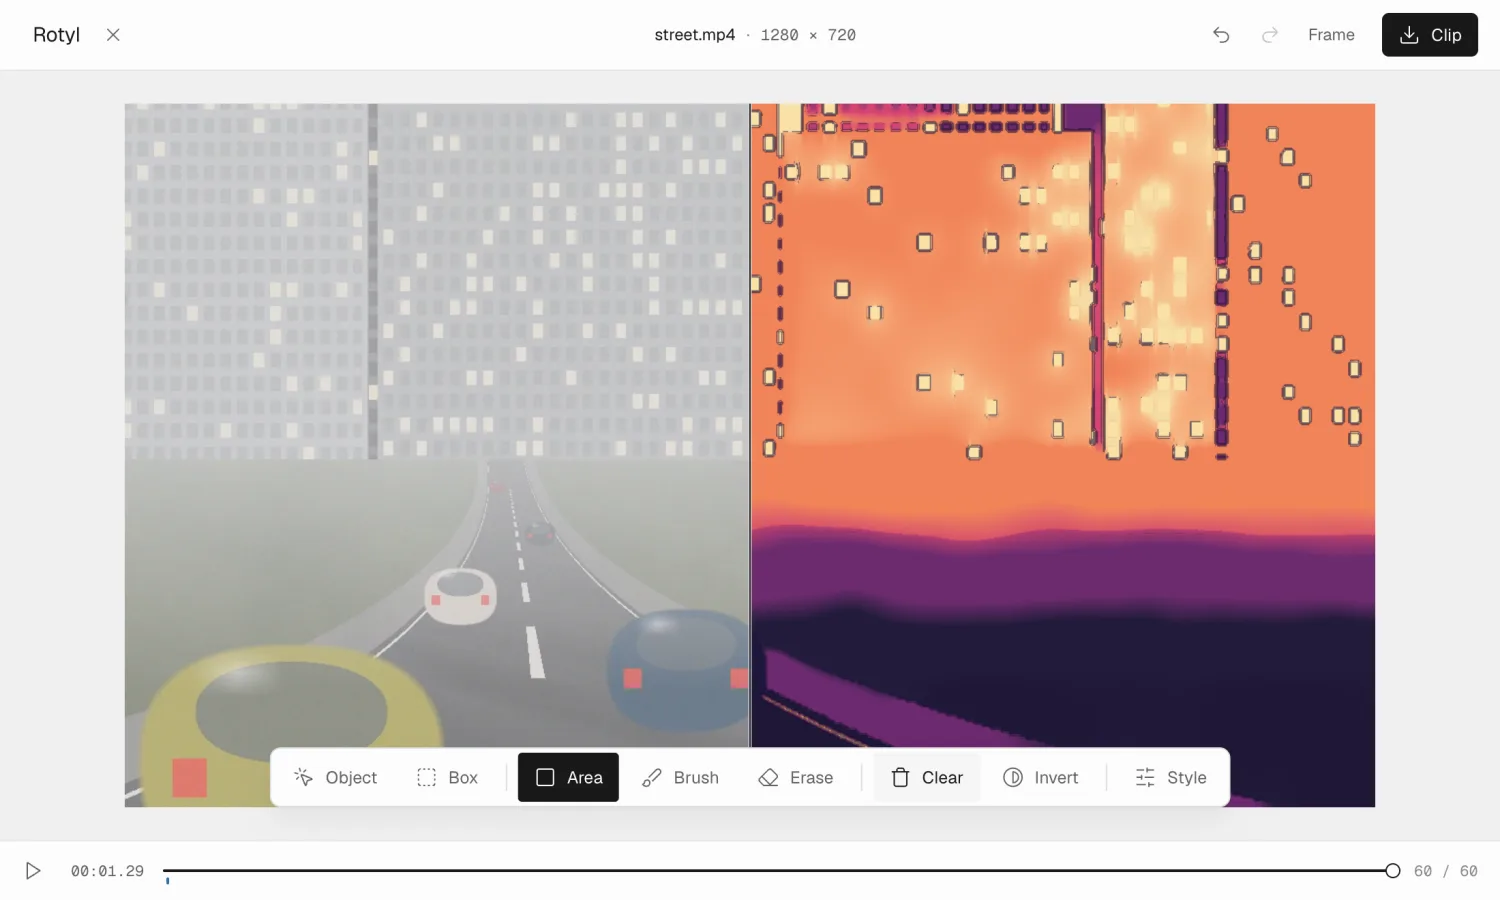
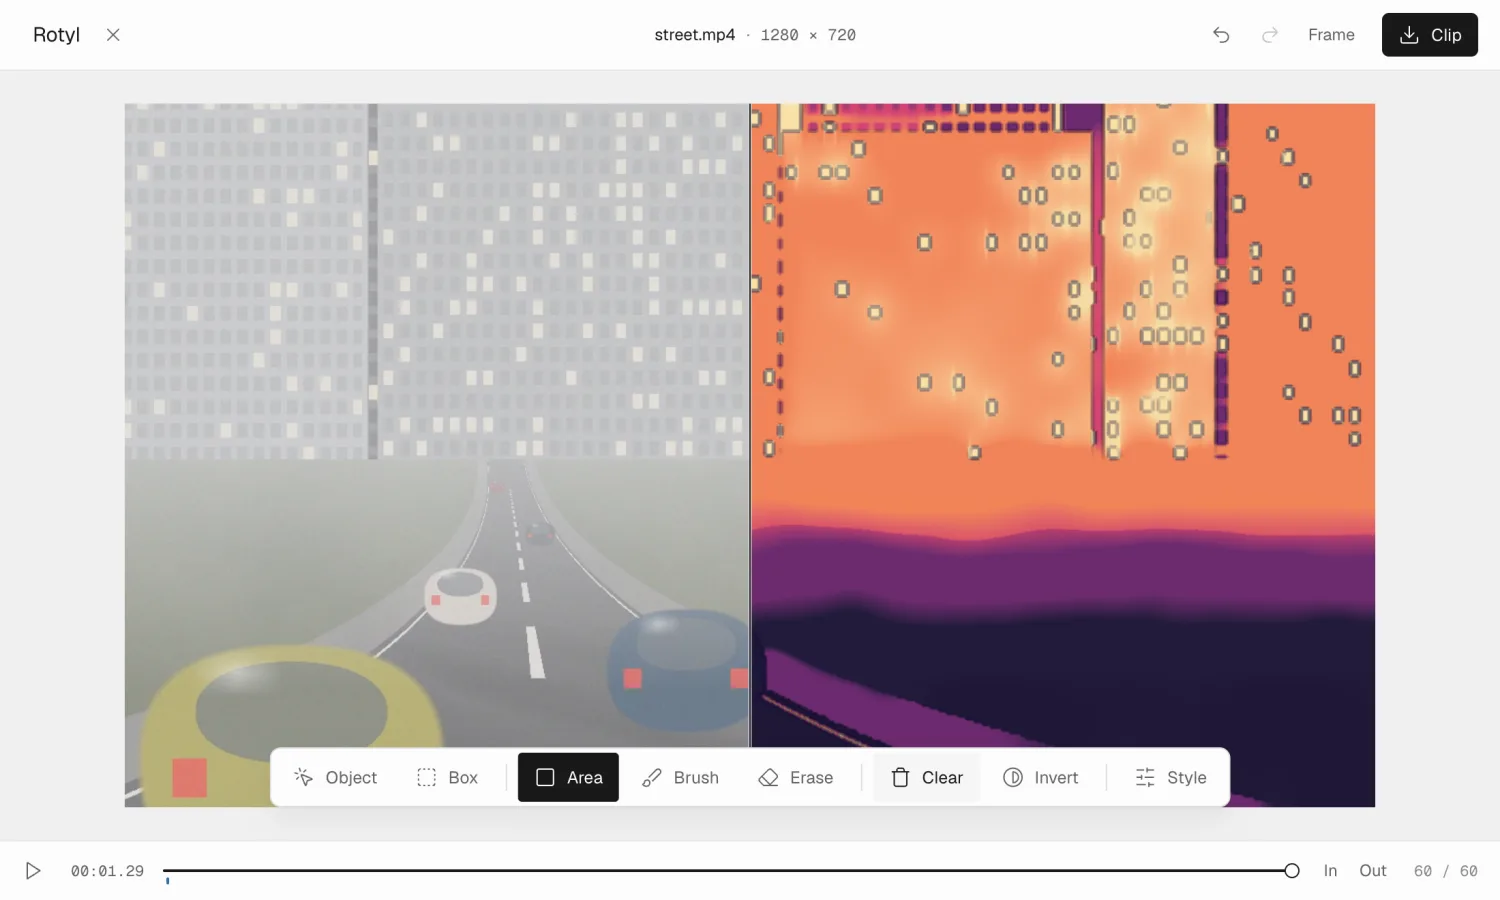
Say in the docs what a clip now carries, and retake the shot the timeline changed

diff --git a/docs/video.md b/docs/video.md
@@ -2,8 +2,8 @@
 
 # Video, so far
 
-![A video frame with its right half stylised, the timeline below it, and Frame
-and Clip export buttons above](media/video.webp)
+![A video frame with its right half stylised, the timeline below it carrying In
+and Out beside the frame count, and Frame and Clip export buttons above](media/video.webp)
 
 Open an MP4 or a MOV, select a region, and play it. Every frame goes through the
 same renderer a photograph does, the same style chain, the same composite, the
@@ -92,7 +92,11 @@ there.
 
 Two smaller things, both the difference between honest and usable. The timeline
 marks the frames where an edit begins, because a selection whose origin cannot
-be found again cannot be corrected. And undo moves the playhead to whatever it
+be found again cannot be corrected. It also carries In and Out, which say which
+part of the clip an export writes, and nothing at all until one is set: a clip
+somebody has said nothing about must not carry marks implying they have. The
+letters are the ones every editor binds, shifted here because the unshifted
+pair is taken by the Object tool and the tools come first. And undo moves the playhead to whatever it
 undid: the log is one list with one cursor, so undo means the last thing you
 did, which may be somewhere you are not looking. An edit disappearing in front
 of you is undo, and an edit disappearing off screen is a bug report. Following
@@ -239,6 +243,51 @@ they were when export could only write a picture, and the only new decision is
 which pair the user asked for. A second container would be one entry in a table,
 and a second codec one entry in another.
 
+**Sound is not more frames, and it is still not a second loop.** A soundtrack is
+a second stream whose packets do not land on frame boundaries and are not the
+same number as the frames, so it gets a cursor of its own on the source and a
+second method on the sink. What it does not get is a pass of its own over the
+file, and that is a measurement rather than a preference. Written as one run
+after the video, the sound of a given second sits most of the file away from its
+picture and the distance grows with the clip, which is not a progressive file
+whatever order the boxes are in. Written that way it is usually not a file at
+all: with the index reserved, the muxer cannot size the movie box until it has
+seen a packet from every track, so a run of video with the audio behind it
+queues every frame in memory and, on a track carrying B-frames, fails before a
+byte is written. So the loop asks on every frame whether the sound is behind and
+hands over whatever is due, which is one comparison per frame and turns that
+distance into a constant. `tools/video-bench` has the three arrangements.
+
+**And the sound is copied rather than encoded.** The picture is re-encoded
+because it was re-drawn; the audio was not touched, so what goes into the file
+is the packets that came out of it, bit-identical, with nothing changed but the
+moment they play. There is no `AudioDecoder` and no `AudioEncoder` anywhere in
+this product and passing packets through needs neither. What that costs is two
+edges: an AAC track's own priming packet sits at a negative timestamp that MP4
+cannot express, and a range's in point lands inside a packet rather than between
+two. Both are dropped, each is at most 21 ms at 48 kHz against a 33 ms frame,
+and everything kept is at exactly the moment it was at in the source. The
+alternative is re-encoding the first packet, which is exact and is also the only
+thing that would stop the sound being the source's own bytes.
+
+**A soundtrack the container cannot hold is said before the work.** An MP4 holds
+eighteen audio codecs and QuickTime holds more, so a `.mov` with mu-law audio is
+an ordinary file whose sound has nowhere to go. Deciding that costs a list
+lookup on a track that is already open, so it is a fact about the open file
+rather than an outcome of the export: it is in the row beside the file's name
+and in the export button's own sentence, and it is said again when the file
+lands. The one thing it must not be is a discovery made by playing the result.
+
+**A range is a range on the export, not a trim of the document.** In and Out
+mark which frames a clip export writes, and that is all they change: every
+command in the log keeps its absolute frame number and still folds forward, so a
+selection made on frame 0 still applies to a range that starts at frame 400. A
+trim that renumbered frames would put the log and the timeline into
+disagreement about what frame 500 means, and every edit made before the in point
+would either move or stop applying. The one thing that is rebased is the
+presentation timestamp, so the written file starts at zero, and that is a
+property of the file rather than of the document.
+
 **Where the bytes go is asked before any of them exist.** A browser that can be
 handed a file writes each packet into it as the encoder makes one, so what the
 tab is holding does not depend on how long the clip is. A browser that cannot
@@ -282,6 +331,15 @@ and hands over a clip of that. Given a file to write into there is no budget at
 all, because nothing is being held: measured over twenty-five minutes, the heap
 grows by half a megabyte per thousand frames, which is the noise of a decode
 loop. `tools/video-bench` has the ladder.
+
+**The index still goes at the front with two tracks in the file**, which needs
+one more thing than it did with one: `reserve` sizes the sample tables before
+the first sample lands, so EVERY track needs a maximum packet count up front.
+The video's is free, since an export knows how many frames it is writing before
+it renders the first one. The audio's is a metadata-only walk of the whole
+track, which reads the sample tables and none of the payload, at about a
+microsecond a packet. Fifty milliseconds on twenty minutes of 48 kHz audio, paid
+once, before anything slow.
 
 **The composite reaches the encoder through the canvas it already renders into.**
 Measured, per frame at 1080p: capturing the canvas costs nothing detectable,

diff --git a/docs/limits.md b/docs/limits.md
@@ -106,16 +106,45 @@ one, and the measurement behind it is on `/research.html`.
   downloads folder in every browser. It is a couple of megabytes with no ceiling
   in sight, so a dialog in front of it would buy nothing and cost an interaction
   this product has always had.
-- Exporting a clip writes H.264 in MP4 and nothing else. HEVC and AV1 encode in
-  some browsers and have been measured in none here, and the codec list is one
-  array waiting for somebody with the numbers.
-- Audio is not written. There is no audio anywhere in the product yet, and a
-  clip that silently dropped a soundtrack it had been given would be worse than
-  one that never had it.
+- Exporting a clip writes H.264 in MP4 and nothing else, and re-encodes the
+  picture while copying the sound. HEVC and AV1 encode in some browsers and have
+  been measured in none here, and the codec list is one array waiting for
+  somebody with the numbers.
+- **A clip's sound is copied across rather than re-encoded, and two packets of
+  it can go missing.** The audio is written as the packets it arrived as, so
+  what comes out is bit-identical to what went in, which is the one thing about
+  a clip export that is exact. What that costs is the two edges. An AAC track
+  begins with a priming packet at a negative timestamp, whose samples a decoder
+  throws away, and MP4 has no way to say "before zero" except an edit list this
+  muxer only writes for positive offsets, so it is dropped. And a range's in
+  point lands inside a packet rather than between two, so the packet holding it
+  is dropped as well. Each is at most 21 ms at 48 kHz, which is less than a
+  frame at 30, and everything kept is at exactly the moment it was at in the
+  source. The alternative is re-encoding the first packet, which is exact and
+  is also the only thing that would stop the sound being the source's own bytes.
+- **A soundtrack an MP4 cannot carry is dropped, and said before the work rather
+  than after it.** QuickTime holds mu-law and MP4 does not, so a `.mov` off an
+  older camera is an ordinary file whose sound has nowhere to go. Which codecs
+  survive is decided from the track and the format alone while the file is
+  merely open, so it is in the row beside the file's name and in the export
+  button's own sentence, minutes before the encoding rather than after it. There
+  is no second container to offer instead: writing QuickTime costs eleven bytes
+  and has been measured on nothing.
+- Playback has no sound. What an export carries and what the editor plays are
+  separate questions, and a preview that played audio would need a clock the
+  render loop deliberately does not have: playback drops frames rather than
+  running slow, and sound cannot.
+- **An export range is a range on the export and not a trim of the document.**
+  In and Out mark which frames a clip export writes; every command in the log
+  keeps its own absolute frame number, so a selection made before the range
+  starts still applies to it and the timeline still means what it meant. What
+  that does not give you is a trim: there is no way to cut the middle out of a
+  clip, or to write two ranges into one file, and both would be reasonable
+  things to want.
 - Clear and Invert act from the frame being shown onward, like every other
   command. There is no way to say "this frame only" or "the whole clip", and
   both would be reasonable things to want.
-- Playback has no audio and no loop, and drops frames rather than running slow
+- Playback has no loop, and drops frames rather than running slow
   when the style chain cannot keep up. Which it only does for the comic style:
   the other two are around a millisecond a frame at 720p.
 - The print style twinkles on video. 3% of pixels move more than 8 codes

diff --git a/README.md b/README.md
@@ -46,11 +46,14 @@ edit holds from the frame it was made on until something later changes it, and
 Track follows what is selected forward through the clip as a job the playhead is
 free to ignore. See [video](docs/video.md).
 
-**Exporting.** The frame on screen as a picture, or the whole clip as an MP4.
-Both are the preview's renderer at the preview's parameters stopping at the same
-pass, so a saved file cannot drift from what was on screen. A clip asks where it
-goes before it encodes anything, and in a browser that can answer that it is
-written into the file as it is made rather than held until the end.
+**Exporting.** The frame on screen as a picture, or the clip as an MP4, whole or
+between an In and an Out. Both are the preview's renderer at the preview's
+parameters stopping at the same pass, so a saved file cannot drift from what was
+on screen. A clip asks where it goes before it encodes anything, and in a
+browser that can answer that it is written into the file as it is made rather
+than held until the end. Its soundtrack goes with it, copied across as the
+packets it arrived as rather than re-encoded, and interleaved with the picture
+so the file still plays before it has finished arriving.
 
 ![The comic style with the Mural palette applied inside a dragged rectangle,
 with the style panel open](docs/media/styles.webp)
@@ -98,12 +101,15 @@ the code that produced it.
 
 Tracking needs two graphs that no published release contains, so a build says
 where they are hosted or there is no Track button; without one, a selection held
-across a moving subject still drifts off it. A clip is re-encoded, so outside the
-selection it is the source pixels written again rather than the source bytes.
-Only Chrome and Edge can give a page a file to write into, so everywhere else a
-clip export is built in the tab and stops at about twelve minutes of 1080p with
-what it wrote. Object selection needs the network once, for about 36 MB of
-model. The full list, which is longer and does not flatter the project, is in
+across a moving subject still drifts off it. A clip's picture is re-encoded, so
+outside the selection it is the source pixels written again rather than the
+source bytes; its sound is copied across rather than re-encoded, and a
+soundtrack an MP4 cannot carry is dropped, which the interface says before the
+work rather than after it. Playback has no sound at all. Only Chrome and Edge
+can give a page a file to write into, so everywhere else a clip export is built
+in the tab and stops at about twelve minutes of 1080p with what it wrote. Object
+selection needs the network once, for about 36 MB of model. The full list, which
+is longer and does not flatter the project, is in
 [known limits](docs/limits.md).
 
 ## Licence

diff --git a/docs/interface.md b/docs/interface.md
@@ -81,6 +81,23 @@ happened, so left up through a scrub and two brush strokes it would be
 describing something else by then. Ten seconds, which is long enough to read a
 sentence about a clip that stopped early.
 
+**One thing is a state rather than an event, and it goes somewhere else.** A
+soundtrack an MP4 cannot carry is true for as long as the file is open, so it
+sits in the row beside the file's name and its dimensions, in the darkest of the
+greys there rather than in the one saturated colour this product spends on
+failures. Nothing has failed. Something is going to be lost, the user is going
+to want to know before the minutes of encoding rather than after, and a line
+that took itself down after ten seconds would be a line they were not looking at
+when it mattered. It is said again when the file lands, because the warning went
+up minutes earlier and a file that turns out to be silent when it is played is
+the one thing this was built to stop being a surprise.
+
+**And a button's second sentence lives in its title**, which is the rule the
+Stop button already follows. The Clip button's is what pressing it will do:
+which part of the clip, and whether the sound goes with it. That is where the
+range says what it is, because the timeline shows where it is and the button
+shows what it means.
+
 ## Type and fonts
 
 Geist and Geist Mono, SIL OFL 1.1 (see `public/fonts/LICENSE.txt`). Subset to

diff --git a/docs/architecture.md b/docs/architecture.md
@@ -68,7 +68,10 @@ one: a source hands over frames, a sink takes them, and a photograph is a
 one-frame document that goes through it once. Whether those bytes end up in a
 file the user named or in a blob the browser downloads is one line inside the
 sink, which is why a browser that can be handed a file did not cost a second
-export. See [writing the clip out](video.md#writing-the-clip-out).
+export. A soundtrack is a second stream rather than more frames, so it has a
+cursor of its own and a second method on the sink, and it is still not a second
+loop: what the loop gained is one question per frame, asking whether the sound
+is behind. See [writing the clip out](video.md#writing-the-clip-out).
 
 **Boundaries have no seam.** Every stage before the composite runs over the
 whole image. Masking earlier would be cheaper but wrong: a style's kernels
